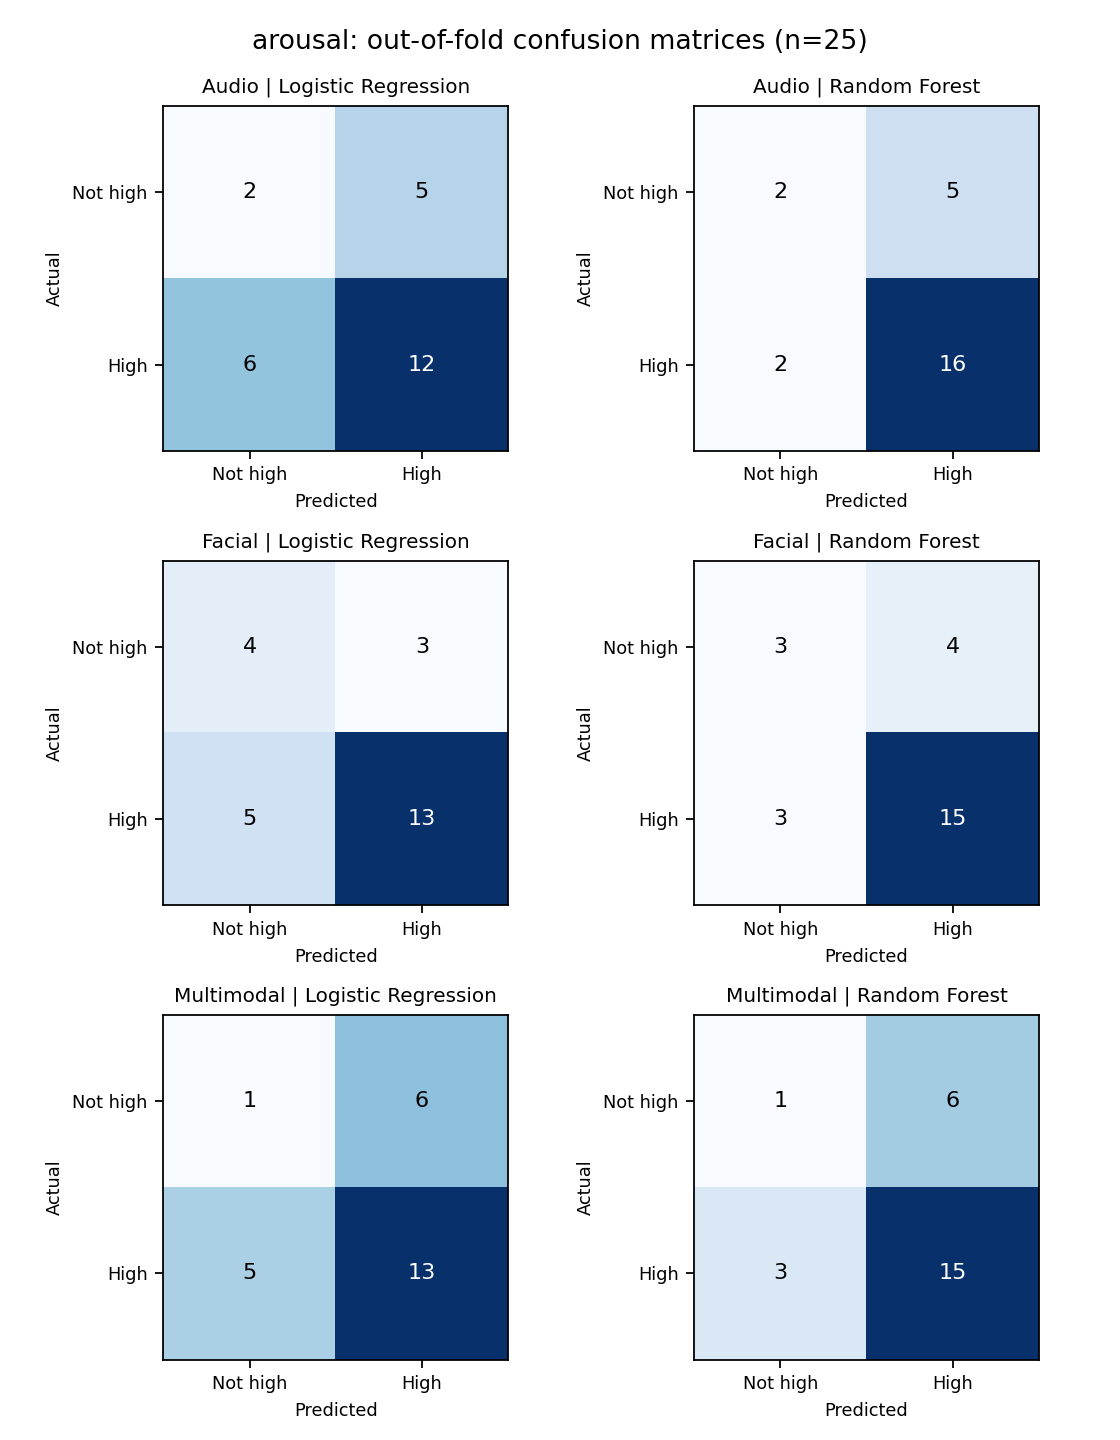
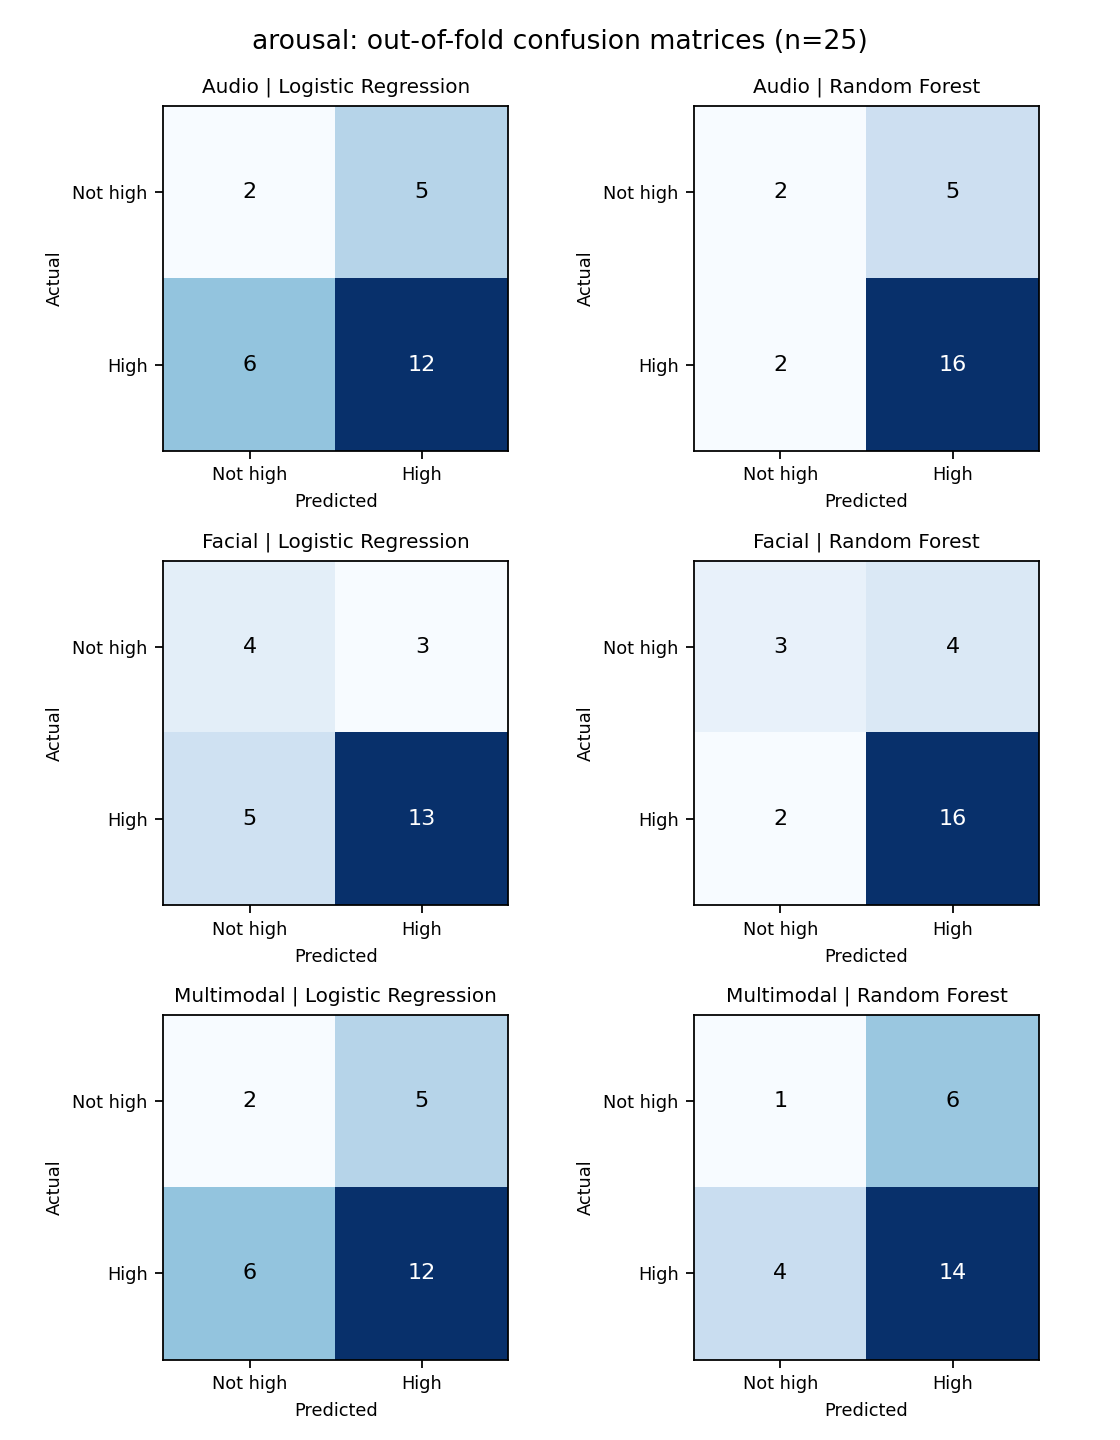
chore: re-run the two evaluation scripts

Changed region(s): [[0.2812, 0.6875, 0.4688, 0.8438]]

diff --git a/Multimodal_Feature/output_multimodal/EVALUATION.md b/Multimodal_Feature/output_multimodal/EVALUATION.md
@@ -6,12 +6,12 @@ Same five folds for every modality; training-fold preprocessing only. Lower erro
 |---|---|---:|---:|
 | valence_score | Dummy mean | 0.6520 | 0.7616 |
 | valence_score | Audio | 0.5885 | 0.7444 |
-| valence_score | Facial | 0.6083 | 0.7388 |
-| valence_score | Multimodal | 0.5393 | 0.6933 |
+| valence_score | Facial | 0.6176 | 0.7512 |
+| valence_score | Multimodal | 0.5391 | 0.6875 |
 | arousal_score | Dummy mean | 0.5720 | 0.7382 |
-| arousal_score | Audio | 0.7092 | 0.8969 |
-| arousal_score | Facial | 0.5944 | 0.8299 |
-| arousal_score | Multimodal | 0.5922 | 0.8494 |
+| arousal_score | Audio | 0.7089 | 0.8976 |
+| arousal_score | Facial | 0.5607 | 0.7749 |
+| arousal_score | Multimodal | 0.5767 | 0.8241 |
 
 These are exploratory out-of-fold regression results on 25 records, not independent test-set validation. Combined features do not consistently improve on the dummy or unimodal models. Numeric treatment of ordinal targets is an approximation. Do not infer deployment readiness or reliable emotion classification from these scores.
 
